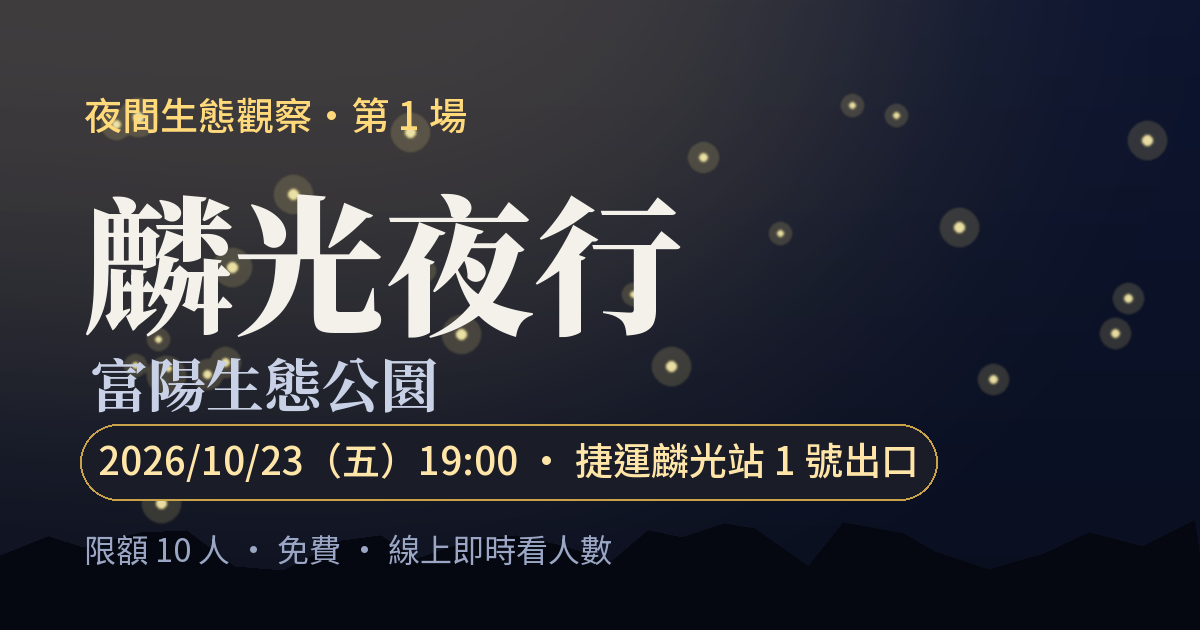
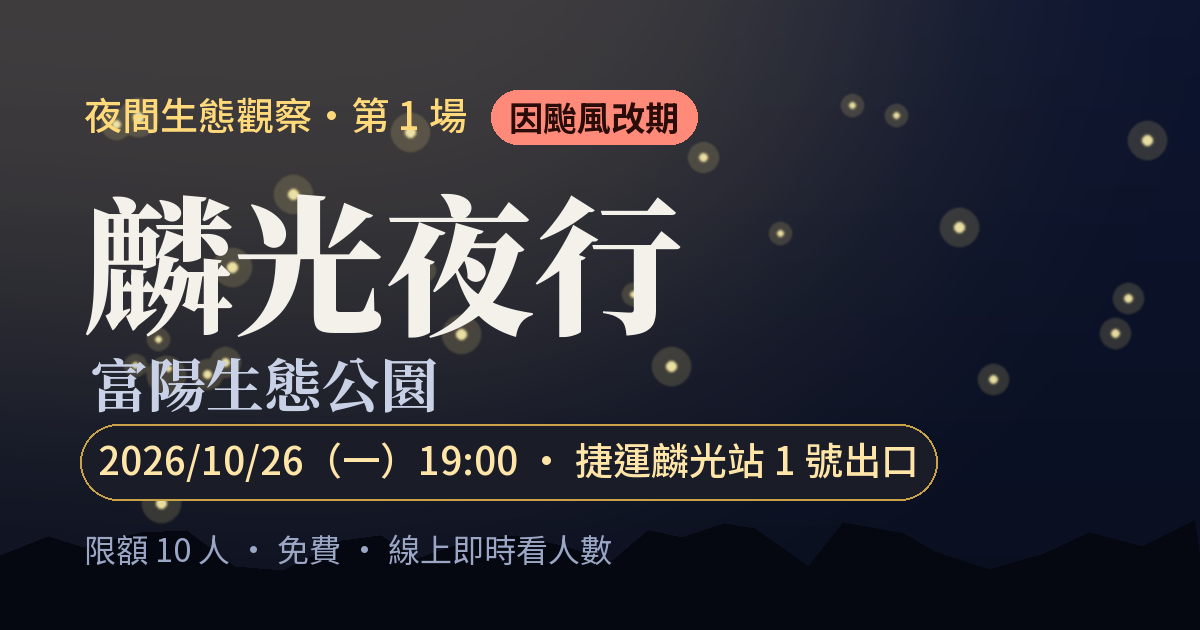
Reschedule to 10/26 and add change checklist
- Regenerate share preview for 10/26 (Mon) with a typhoon-reschedule tag;
  move the generator into tools/make_og.py so future events reuse it
- Update og/description tags and fallback dates; version the og:image
  URL so LINE refetches it
- Show 狀態補充說明 as an info banner while the event is 正常舉行, so a
  reschedule notice can be posted without closing registration
- Add CHECKLIST.md for rescheduling vs. starting a new event

Changed region(s): [[0.4008, 0.1206, 0.5858, 0.2413], [0.2775, 0.6937, 0.3392, 0.754], [0.2158, 0.7238, 0.2467, 0.754]]

diff --git a/index.html b/index.html
@@ -4,16 +4,16 @@
   <meta charset="utf-8">
   <meta name="viewport" content="width=device-width, initial-scale=1, viewport-fit=cover">
   <title>麟光夜行・富陽生態公園｜線上報名</title>
-  <meta name="description" content="10/23（五）19:00 捷運麟光站集合，夜訪富陽自然生態公園。限額 10 人，免費，線上報名即時看人數。">
+  <meta name="description" content="因颱風改期至 10/26（一）19:00，捷運麟光站集合，夜訪富陽自然生態公園。限額 10 人，免費，線上報名即時看人數。">
   <meta name="theme-color" content="#0a0f1f">
 
   <!-- LINE / 社群分享預覽（LINE 不會執行 JavaScript，這裡要寫死） -->
   <meta property="og:type" content="website">
   <meta property="og:site_name" content="麟光夜行">
-  <meta property="og:title" content="麟光夜行・富陽生態公園｜10/23（五）19:00">
-  <meta property="og:description" content="捷運麟光站 1 號出口集合，夜訪富陽自然生態公園。限額 10 人・免費・線上報名即時看人數。">
+  <meta property="og:title" content="麟光夜行・富陽生態公園｜10/26（一）19:00（因颱風改期）">
+  <meta property="og:description" content="原 10/23 因颱風改期。捷運麟光站 1 號出口集合，夜訪富陽自然生態公園。限額 10 人・免費・線上報名即時看人數。">
   <meta property="og:url" content="https://wang-yi-zhang.github.io/night-walk/">
-  <meta property="og:image" content="https://wang-yi-zhang.github.io/night-walk/og.png">
+  <meta property="og:image" content="https://wang-yi-zhang.github.io/night-walk/og.png?v=20261026">
   <meta property="og:image:width" content="1200">
   <meta property="og:image:height" content="630">
   <meta name="twitter:card" content="summary_large_image">
@@ -32,7 +32,7 @@
     <div class="hero-inner">
       <p class="kicker"><span data-field="kicker">夜間生態觀察・第 1 場</span></p>
       <h1 class="title"><span data-field="title-main">麟光夜行</span><small data-field="title-sub">富陽生態公園</small></h1>
-      <p class="when"><span data-field="when">2026/10/23（五）19:00–21:00</span></p>
+      <p class="when"><span data-field="when">2026/10/26（一）19:00–21:00</span></p>
     </div>
     <svg class="treeline" viewBox="0 0 1200 120" preserveAspectRatio="none" aria-hidden="true">
       <path d="M0 120V78c40-6 60-30 92-28s38 24 70 20 40-46 78-44 44 34 82 30 52-50 96-48 48 40 90 38 40-22 76-20 46 30 88 26 54-56 104-54 50 44 92 42 42-26 82-24 50 32 96 28 60-40 102-38 52 30 82 28V120Z"/>
@@ -127,7 +127,7 @@
         <p id="success-text" class="success-text"></p>
         <dl class="ticket">
           <div><dt>暱稱</dt><dd id="ticket-nickname"></dd></div>
-          <div><dt>時間</dt><dd data-field="when">2026/10/23（五）19:00–21:00</dd></div>
+          <div><dt>時間</dt><dd data-field="when">2026/10/26（一）19:00–21:00</dd></div>
           <div><dt>集合</dt><dd data-field="place">捷運麟光站 1 號出口</dd></div>
         </dl>
         <div class="cal-buttons" data-cal></div>
@@ -140,11 +140,11 @@
     <section class="card info" aria-labelledby="info-h">
       <h2 id="info-h" class="eyebrow">活動資訊</h2>
       <dl class="info-list">
-        <div><dt>時間</dt><dd data-field="when">2026/10/23（五）19:00–21:00</dd></div>
+        <div><dt>時間</dt><dd data-field="when">2026/10/26（一）19:00–21:00</dd></div>
         <div><dt>集合</dt><dd><span data-field="place">捷運麟光站 1 號出口</span> <a id="map-link" class="inline-link" href="https://www.google.com/maps/search/?api=1&amp;query=%E6%8D%B7%E9%81%8B%E9%BA%9F%E5%85%89%E7%AB%99%201%E8%99%9F%E5%87%BA%E5%8F%A3" target="_blank" rel="noopener">地圖 ↗</a></dd></div>
         <div><dt>路線</dt><dd data-field="route">富陽自然生態公園</dd></div>
         <div><dt>費用</dt><dd data-field="fee">免費</dd></div>
-        <div><dt>截止</dt><dd data-field="deadline">10/23（五）12:00</dd></div>
+        <div><dt>截止</dt><dd data-field="deadline">10/26（一）12:00</dd></div>
       </dl>
     </section>
 

diff --git a/mock-api.js b/mock-api.js
@@ -3,10 +3,10 @@ window.NightWalkMock = function (scenario) {
   'use strict';
 
   const settings = {
-    id: '2026-10-23',
+    id: '2026-10-26',
     name: '麟光夜行・富陽生態公園',
     title: '第 1 場',
-    date: '2026-10-23',
+    date: '2026-10-26',
     start: '19:00',
     end: '21:00',
     place: '捷運麟光站 1 號出口',
@@ -19,7 +19,7 @@ window.NightWalkMock = function (scenario) {
     rainRule: '當天 15:00 台北市降雨機率 ≥ 70% 即取消，16:00 前於本頁公告。',
     contactEmail: 'hemoparasite@gmail.com',
     contactLine: 'hemoparasite',
-    deadline: '2026-10-23 12:00',
+    deadline: '2026-10-26 12:00',
   };
   let capacity = 10;
   const waitlistCapacity = 5;
@@ -36,6 +36,7 @@ window.NightWalkMock = function (scenario) {
     case 'full': seed(10, '正取'); seed(5, '候補'); break;
     case 'rain': seed(8, '正取'); settings.status = '因雨取消'; settings.statusNote = '15:00 降雨機率 80%，本場取消，改期另行通知。'; break;
     case 'deadline': seed(7, '正取'); deadlinePassed = true; break;
+    case 'notice': seed(3, '正取'); settings.statusNote = '原訂 10/23（五）因颱風改期至 10/26（一），時間地點不變。'; break;
     default: seed(6, '正取');
   }
 

diff --git a/app.js b/app.js
@@ -134,6 +134,16 @@
       const p = document.createElement('p');
       p.textContent = ev.statusNote || '請留意本頁公告。';
       banner.replaceChildren(strong, p);
+      banner.classList.remove('info');
+      banner.hidden = false;
+    } else if (ev.statusNote) {
+      // 正常舉行但有補充說明（例如改期公告）：顯示提示橫幅，報名照常開放
+      const strong = document.createElement('strong');
+      strong.textContent = '📢 公告';
+      const p = document.createElement('p');
+      p.textContent = ev.statusNote;
+      banner.replaceChildren(strong, p);
+      banner.classList.add('info');
       banner.hidden = false;
     } else {
       banner.hidden = true;

diff --git a/style.css b/style.css
@@ -214,6 +214,8 @@ a { color: inherit; }
 }
 .banner strong { display: block; font-size: 18px; color: var(--danger); margin-bottom: 2px; }
 .banner p { margin: 0; }
+.banner.info { border-color: var(--accent); background: var(--accent-soft); }
+.banner.info strong { color: var(--accent-text); }
 
 /* ── Seats ────────────────────────────────────── */
 

diff --git a/tools/make_og.py b/tools/make_og.py
@@ -1,0 +1,106 @@
+"""產生 LINE／社群分享預覽圖 og.png（1200×630）。
+
+用法（在 repo 根目錄執行）：
+    python tools/make_og.py --date "2026/10/26（一）" --time "19:00" \
+        --place "捷運麟光站 1 號出口" --kicker "夜間生態觀察・第 1 場" --badge "因颱風改期"
+
+需要 Pillow，以及 Windows 內建的 Noto Serif TC／Noto Sans TC 字型。
+"""
+import argparse
+import random
+
+from PIL import Image, ImageDraw, ImageFilter, ImageFont
+
+FONTS = 'C:/Windows/Fonts/'
+W, H = 1200, 630
+
+
+def font(name, size, variation):
+    f = ImageFont.truetype(FONTS + name, size)
+    try:
+        f.set_variation_by_name(variation)
+    except Exception:
+        pass
+    return f
+
+
+def main():
+    ap = argparse.ArgumentParser()
+    ap.add_argument('--title', default='麟光夜行')
+    ap.add_argument('--subtitle', default='富陽生態公園')
+    ap.add_argument('--kicker', default='夜間生態觀察')
+    ap.add_argument('--date', required=True, help='例如 2026/10/26（一）')
+    ap.add_argument('--time', default='19:00')
+    ap.add_argument('--place', default='捷運麟光站 1 號出口')
+    ap.add_argument('--footer', default='限額 10 人 ‧ 免費 ‧ 線上即時看人數')
+    ap.add_argument('--badge', default='', help='醒目標籤，例如「因颱風改期」；留空不顯示')
+    ap.add_argument('--out', default='og.png')
+    a = ap.parse_args()
+
+    serif = font('NotoSerifTC-VF.ttf', 150, 'Black')
+    serif_sub = font('NotoSerifTC-VF.ttf', 58, 'Bold')
+    sans = font('NotoSansTC-VF.ttf', 38, 'Medium')
+    sans_bold = font('NotoSansTC-VF.ttf', 34, 'Bold')
+    sans_small = font('NotoSansTC-VF.ttf', 32, 'Regular')
+
+    # 夜空漸層
+    img = Image.new('RGB', (W, H))
+    px = img.load()
+    for y in range(H):
+        t = y / H
+        c = (int(13 - 3 * t), int(21 - 6 * t), int(48 - 17 * t))
+        for x in range(W):
+            px[x, y] = c
+
+    # 左上角的手電筒光暈
+    glow = Image.new('L', (W, H), 0)
+    ImageDraw.Draw(glow).ellipse((-300, -420, 900, 380), fill=120)
+    glow = glow.filter(ImageFilter.GaussianBlur(160))
+    img = Image.composite(Image.new('RGB', (W, H), (255, 214, 120)), img, glow.point(lambda v: int(v * 0.45)))
+
+    # 螢火蟲
+    fire = Image.new('RGBA', (W, H), (0, 0, 0, 0))
+    fd = ImageDraw.Draw(fire)
+    random.seed(7)
+    for _ in range(26):
+        x, y = random.randint(40, W - 40), random.randint(80, H - 120)
+        r = random.choice([3, 4, 5])
+        fd.ellipse((x - r * 4, y - r * 4, x + r * 4, y + r * 4), fill=(255, 233, 140, 40))
+        fd.ellipse((x - r, y - r, x + r, y + r), fill=(255, 243, 176, 230))
+    img = Image.alpha_composite(img.convert('RGBA'), fire.filter(ImageFilter.GaussianBlur(1.2)))
+
+    # 樹林剪影
+    d = ImageDraw.Draw(img)
+    random.seed(3)
+    pts, x = [(0, H)], 0
+    while x <= W:
+        pts.append((x, H - 60 - random.randint(0, 50)))
+        x += random.randint(30, 60)
+    d.polygon(pts + [(W, H - 70), (W, H)], fill='#050811')
+
+    # 文字
+    X = 84
+    d.text((X, 92), a.kicker, font=sans, fill='#ffd97a')
+    if a.badge:
+        kb = d.textbbox((X, 92), a.kicker, font=sans)
+        bb = d.textbbox((0, 0), a.badge, font=sans_bold)
+        bx, by = kb[2] + 24, 90
+        d.rounded_rectangle((bx, by, bx + bb[2] - bb[0] + 36, by + 54), radius=27, fill='#ff8a7a')
+        d.text((bx + 18, by + 27), a.badge, font=sans_bold, fill='#2a0d08', anchor='lm')
+    d.text((X, 150), a.title, font=serif, fill='#f3f1ea')
+    d.text((X + 6, 340), a.subtitle, font=serif_sub, fill='#c9d1e6')
+
+    pill = f'{a.date}{a.time} ‧ {a.place}'
+    bb = d.textbbox((0, 0), pill, font=sans)
+    pw, ph, py = bb[2] - bb[0], bb[3] - bb[1], 438
+    d.rounded_rectangle((X - 4, py - 14, X + pw + 32, py + ph + 22), radius=40, outline='#c9a24a', width=2, fill='#1a1d27')
+    d.text((X + 14, py - bb[1] + 4), pill, font=sans, fill='#ffe6a8')
+
+    d.text((X, 530), a.footer, font=sans_small, fill='#9aa6c4')
+
+    img.convert('RGB').save(a.out, optimize=True)
+    print('saved', a.out)
+
+
+if __name__ == '__main__':
+    main()

diff --git a/CHECKLIST.md b/CHECKLIST.md
@@ -1,0 +1,105 @@
+# 活動異動確認表
+
+每次調整活動前，先判斷是哪一種情況，再照著對應的表格逐項勾選。
+
+| 情況 | 已報名的人 | 場次代碼 |
+|---|---|---|
+| **A. 改期／延期**（同一場活動換日期，例如颱風改期） | **保留**，原本的名單繼續有效 | **維持不變** |
+| **B. 辦新的一場**（上一場已經結束） | 從 0 開始 | **換一個新的** |
+
+> 💡 **「場次代碼」只是內部編號，不會顯示在網頁上。** 網頁靠它判斷「報名」分頁裡哪幾列屬於目前這一場。改期時如果換了代碼，原本已報名的人就會從網頁上消失。
+
+---
+
+## A. 改期／延期
+
+### A-1. 試算表「設定」分頁
+
+| ✔ | 項目 | 怎麼改 | 範例 |
+|---|---|---|---|
+| ☐ | 場次代碼 | **不要改** | 維持 `2026-10-23` |
+| ☐ | 活動日期 | 改成新日期 | `2026-10-26` |
+| ☐ | 開始時間／結束時間 | 有變動才改 | `19:00`／`21:00` |
+| ☐ | 報名截止 | 改成新日期，**要包含時間** | `2026-10-26 12:00` |
+| ☐ | 活動狀態 | 新日期確定後，改回「正常舉行」才能繼續報名 | `正常舉行` |
+| ☐ | 報名開關 | 確認是「開」 | `開` |
+| ☐ | 狀態補充說明 | 寫改期公告，網頁頂端會出現黃色公告橫幅 | `原訂 10/23（五）因颱風改期至 10/26（一），時間地點不變。` |
+| ☐ | 集合地點／地圖連結 | 地點有變才改，**兩個都要改** | |
+
+> 「延期」和「正常舉行」＋補充說明的差別：
+> - **活動狀態＝延期**：紅色橫幅，**停止報名**。適合新日期還沒確定的時候。
+> - **活動狀態＝正常舉行＋狀態補充說明**：黃色公告橫幅，**照常報名**。適合新日期已經確定的時候。
+
+### A-2. 通知已報名的人
+
+| ✔ | 項目 |
+|---|---|
+| ☐ | 在「報名」分頁確認名單（正取＋候補） |
+| ☐ | 用簡訊或 LINE 個別通知新日期，並詢問是否還能參加 |
+| ☐ | 不能參加的人：刪除那一列，或把「身分」改成「取消」 |
+| ☐ | 有空出名額時，聯絡候補，確認後把「候補」改成「正取」 |
+
+### A-3. 請 Claude 更新 LINE 預覽
+
+提供：新日期、星期、時間、地點（有變的話），以及要不要加「改期」標籤。
+
+---
+
+## B. 辦新的一場
+
+> ⚠ **請等上一場結束後再切換。** 網頁一次只顯示一場，切換後上一場就看不到了。
+
+### B-1. 試算表「設定」分頁
+
+| ✔ | 項目 | 怎麼改 | 範例 |
+|---|---|---|---|
+| ☐ | 場次代碼 | **換一個沒用過的**，建議用活動日期 | `2026-11-20` |
+| ☐ | 場次標題 | 更新 | `第 2 場` |
+| ☐ | 活動日期 | 新日期 | `2026-11-20` |
+| ☐ | 開始時間／結束時間 | 確認 | `19:00`／`21:00` |
+| ☐ | 報名截止 | 新日期，**要包含時間** | `2026-11-20 12:00` |
+| ☐ | 活動狀態 | 改回「正常舉行」 | `正常舉行` |
+| ☐ | 報名開關 | 改回「開」 | `開` |
+| ☐ | 狀態補充說明 | **清空**（不然上一場的公告會繼續顯示） | （空白） |
+| ☐ | 集合地點／地圖連結／路線 | 換地點時都要改 | |
+| ☐ | 正取上限／候補上限 | 確認 | `10`／`5` |
+
+### B-2. 個資
+
+| ✔ | 項目 |
+|---|---|
+| ☐ | 選單 **🔦 夜行報名 → 清除舊場次的手機號碼** |
+
+### B-3. 請 Claude 更新 LINE 預覽
+
+提供：日期、星期、時間、地點、場次標題。
+
+---
+
+## 格式規則（填錯網頁就會出錯）
+
+| 項目 | 正確格式 | ❌ 常見錯誤 | 填錯的後果 |
+|---|---|---|---|
+| 活動日期 | `2026-10-26` | `10/26`、`2026年10月26日` | 網頁的星期、加入行事曆功能失效 |
+| 開始／結束時間 | `19:00` | `晚上7點`、`7:00 PM` | 加入行事曆功能失效 |
+| 報名截止 | `2026-10-26 12:00` | `2026/10/25`（**少了時間**） | **報名永遠不會自動截止** |
+| 正取／候補上限 | `10` | `10人` | 退回預設值 10／5 |
+| 報名開關 | 下拉選單的「開」或「關」 | 自己打字 | — |
+| 活動狀態 | 下拉選單的選項 | 自己打字 | 打錯字會被當成非正常舉行，停止報名 |
+| 地圖連結 | `https://` 開頭 | `http://`、空白 | 網頁不顯示「地圖」連結 |
+
+---
+
+## 改完後在網頁上檢查
+
+打開 https://wang-yi-zhang.github.io/night-walk/ （改完約 30 秒後；急的話點選單 **🔦 夜行報名 → 立即更新網頁人數**）
+
+| ✔ | 檢查項目 |
+|---|---|
+| ☐ | 標題下方的日期、星期、時間正確 |
+| ☐ | 「活動資訊」的集合地點、截止時間正確（截止時間要顯示成 `10/26（一）12:00` 的樣子，不是原本打的文字） |
+| ☐ | 報名人數正確（改期：跟原本一樣；新場次：0） |
+| ☐ | 橫幅符合預期（改期公告／沒有橫幅） |
+| ☐ | 下方是報名表單（不是「已截止」或「已取消」） |
+| ☐ | 「加入行事曆」帶出的日期正確（可以在已報名畫面或報名成功畫面測試） |
+| ☐ | LINE 預覽：Claude 更新後，貼一次連結到自己的 LINE 確認。如果還是舊圖，改貼 `https://wang-yi-zhang.github.io/night-walk/?v=日期`（例如 `?v=1026`） |

diff --git a/README.md b/README.md
@@ -61,6 +61,8 @@
 
 > 「設定」分頁的日期請照格式填寫：`2026-10-23`、`19:00`、`2026-10-23 12:00`（台灣時間）。
 
+> 📋 **改期或辦下一場時，請照 [CHECKLIST.md（活動異動確認表）](CHECKLIST.md) 逐項檢查。**
+
 ### 辦下一場
 1. 在「設定」分頁修改：**場次代碼**（換一個新的，例如新日期）、場次標題、活動日期、時間、報名截止，並把活動狀態改回「正常舉行」、報名開關改回「開」。
 2. 網頁會自動切換成新場次，人數從 0 開始算。舊場次的報名紀錄會保留在「報名」分頁。
@@ -109,5 +111,6 @@
 | `index.html`、`style.css`、`app.js` | 報名網頁 |
 | `config.js` | Apps Script 網址 |
 | `apps-script/Code.gs` | 後端程式（複製到 Apps Script 用，GitHub Pages 不會執行它） |
-| `mock-api.js` | 本機預覽用的假資料：網址加 `?mock`、`?mock=wait`、`?mock=full`、`?mock=rain`、`?mock=deadline` |
-| `og.png` | LINE 分享預覽圖 |
+| `mock-api.js` | 本機預覽用的假資料：網址加 `?mock`、`?mock=wait`、`?mock=full`、`?mock=rain`、`?mock=deadline`、`?mock=notice` |
+| `og.png` | LINE 分享預覽圖，用 `tools/make_og.py` 產生 |
+| `CHECKLIST.md` | 改期或辦新場次時的確認表 |
